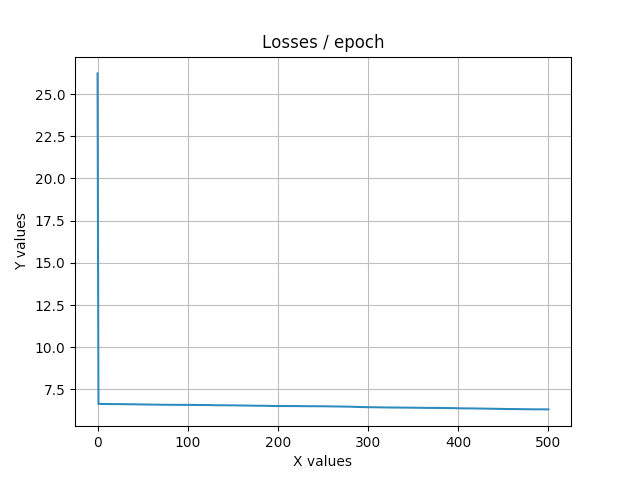
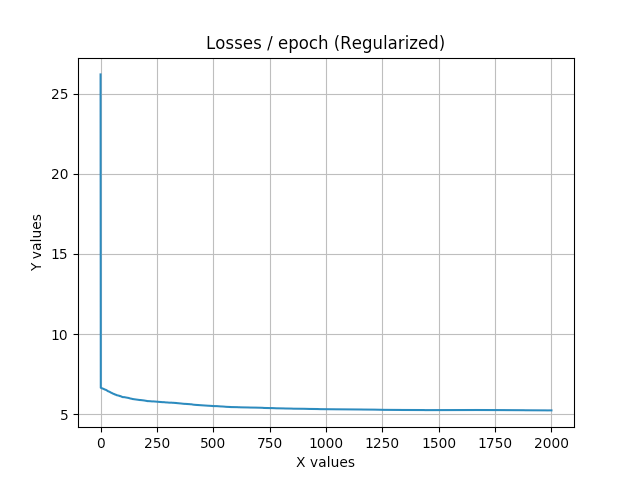
[Logistic Regression] Fix test.py

diff --git a/LogisticRegression/test.py b/LogisticRegression/test.py
@@ -6,7 +6,7 @@
 #    By: nrechati <nrechati@student.42.fr>          +#+  +:+       +#+         #
 #                                                 +#+#+#+#+#+   +#+            #
 #    Created: 2020/02/11 14:19:47 by nrechati          #+#    #+#              #
-#    Updated: 2020/02/11 14:29:03 by nrechati         ###   ########.fr        #
+#    Updated: 2020/02/11 14:47:34 by nrechati         ###   ########.fr        #
 #                                                                              #
 # **************************************************************************** #
 
@@ -18,24 +18,37 @@ from LogisticRegression import LogisticRegression
 from math_fct import accuracy, recall, precision, f1_score
 
 def main():
-	df_train = pd.read_csv('./dataset/train_dataset_clean.csv', delimiter=',', header=None, index_col=False)
+	#Get the train dataset
+	print(f'{Fore.CYAN}Getting the train dataset', end="")
+	df_train = pd.read_csv('./Dataset/train_dataset_clean.csv', delimiter=',', header=None, index_col=False)
 	x_train, y_train = np.array(df_train.iloc[:, 1:82]), np.array(df_train.iloc[:, 0])
 	y_train.shape = [y_train.shape[0], 1]
-	df_test = pd.read_csv('./dataset/test_dataset_clean.csv', delimiter=',', header=None, index_col=False)
+	print(f'\t✔ Ok')
+
+	#Get the test dataset
+	print(f'{Fore.CYAN}Getting the test dataset', end="")
+	df_test = pd.read_csv('./Dataset/test_dataset_clean.csv', delimiter=',', header=None, index_col=False)
 	x_test, y_test = np.array(df_test.iloc[:, 1:82]), np.array(df_test.iloc[:, 0])
 	y_test.shape = [y_test.shape[0], 1]
+	print(f'\t✔ Ok')
 
-	# We set our model with our hyperparameters : alpha, max_iter, verbose and learning_rate
-	Model = LogisticRegression(alpha=0.01, max_iter=500, verbose=True, learning_rate='constant')
-	# We fit our Model to our dataset and display the score for the train and stest datasets
+	# Initialize the model
+	print(f'{Fore.YELLOW}Model Initialization', end="")
+	Model = LogisticRegression(alpha=0.1, max_iter=2000, verbose=True, learning_rate='constant')
+	print(f'\t\t✔ Ok')
+
+	# Training the model
+	print(f'{Fore.MAGENTA}Training the model')
 	Model.fit(x_train, y_train)
+
+	#Testing the model
 	print(f'{Fore.CYAN}Score on train dataset : {Model.score(x_train, y_train)}')
 	y_pred = Model.predict(x_test)
 	print(f'{Fore.CYAN}Score on test dataset : {(y_pred == y_test).mean()}{Style.RESET_ALL}')
 	print(f'{Fore.MAGENTA}Accuracy : {accuracy(y_test, y_pred)}')
 	print(f'{Fore.MAGENTA}Precision : {precision(y_test, y_pred)}')
 	print(f'{Fore.MAGENTA}Recall : {recall(y_test, y_pred)}')
-	print(f'{Fore.MAGENTA}F1_Score : {f1_score(y_test, y_pred)}')
+	print(f'{Fore.MAGENTA}F1_Score : {f1_score(y_test, y_pred)}{Style.RESET_ALL}')
 	Model.plot_loss()
 
 if __name__ == "__main__":

diff --git a/Ressources/ProgressBar.py b/Ressources/ProgressBar.py
@@ -6,7 +6,7 @@
 #    By: nrechati <nrechati@student.42.fr>          +#+  +:+       +#+         #
 #                                                 +#+#+#+#+#+   +#+            #
 #    Created: 2020/02/07 10:03:28 by nrechati          #+#    #+#              #
-#    Updated: 2020/02/11 13:12:00 by nrechati         ###   ########.fr        #
+#    Updated: 2020/02/11 14:41:22 by nrechati         ###   ########.fr        #
 #                                                                              #
 # **************************************************************************** #
 
@@ -47,7 +47,7 @@ def ft_progress(count, bar_char="█", size=int(100)):
 		pad_iter = " " * (len(str(total)) - len(str(x)))
 		time_delta = time.time() - start
 		progress_left = "[" + pad_percent + str(percent) + "%][ " + bar
-		progress_right = pad + " ] " + pad_iter + str(x) + "/" + str(total)
+		progress_right = pad + " ] " + pad_iter + str(x - 1) + "/" + str(total - 1)
 		elapsed_time = " | elapsed time " + "{:.2f}".format(time_delta) + "s     "
 		colored('green')
 		print (progress_left, end="")

diff --git a/LogisticRegression/LogisticRegression.py b/LogisticRegression/LogisticRegression.py
@@ -6,7 +6,7 @@
 #    By: nrechati <nrechati@student.42.fr>          +#+  +:+       +#+         #
 #                                                 +#+#+#+#+#+   +#+            #
 #    Created: 2020/02/11 14:19:35 by nrechati          #+#    #+#              #
-#    Updated: 2020/02/11 14:29:30 by nrechati         ###   ########.fr        #
+#    Updated: 2020/02/11 14:37:20 by nrechati         ###   ########.fr        #
 #                                                                              #
 # **************************************************************************** #
 
@@ -79,7 +79,7 @@ class LogisticRegression:
 	def	score(self, x, y):
 		return ((self.predict(x) == y).mean())
 
-	def plot_loss(self, xlabel='X values', ylabel='Y values', title='Losses / epoch', legendloc='upper left'):
+	def plot_loss(self, xlabel='X values', ylabel='Y values', title='Losses / epoch (Regularized)', legendloc='upper left'):
 		plt.plot(range(self.losses.shape[0]), self.losses)
 		plt.xlabel(xlabel)
 		plt.ylabel(ylabel)

diff --git a/LogisticRegression/math_fct.py b/LogisticRegression/math_fct.py
@@ -6,7 +6,7 @@
 #    By: nrechati <nrechati@student.42.fr>          +#+  +:+       +#+         #
 #                                                 +#+#+#+#+#+   +#+            #
 #    Created: 2020/02/11 14:19:39 by nrechati          #+#    #+#              #
-#    Updated: 2020/02/11 14:28:45 by nrechati         ###   ########.fr        #
+#    Updated: 2020/02/11 14:31:45 by nrechati         ###   ########.fr        #
 #                                                                              #
 # **************************************************************************** #
 
